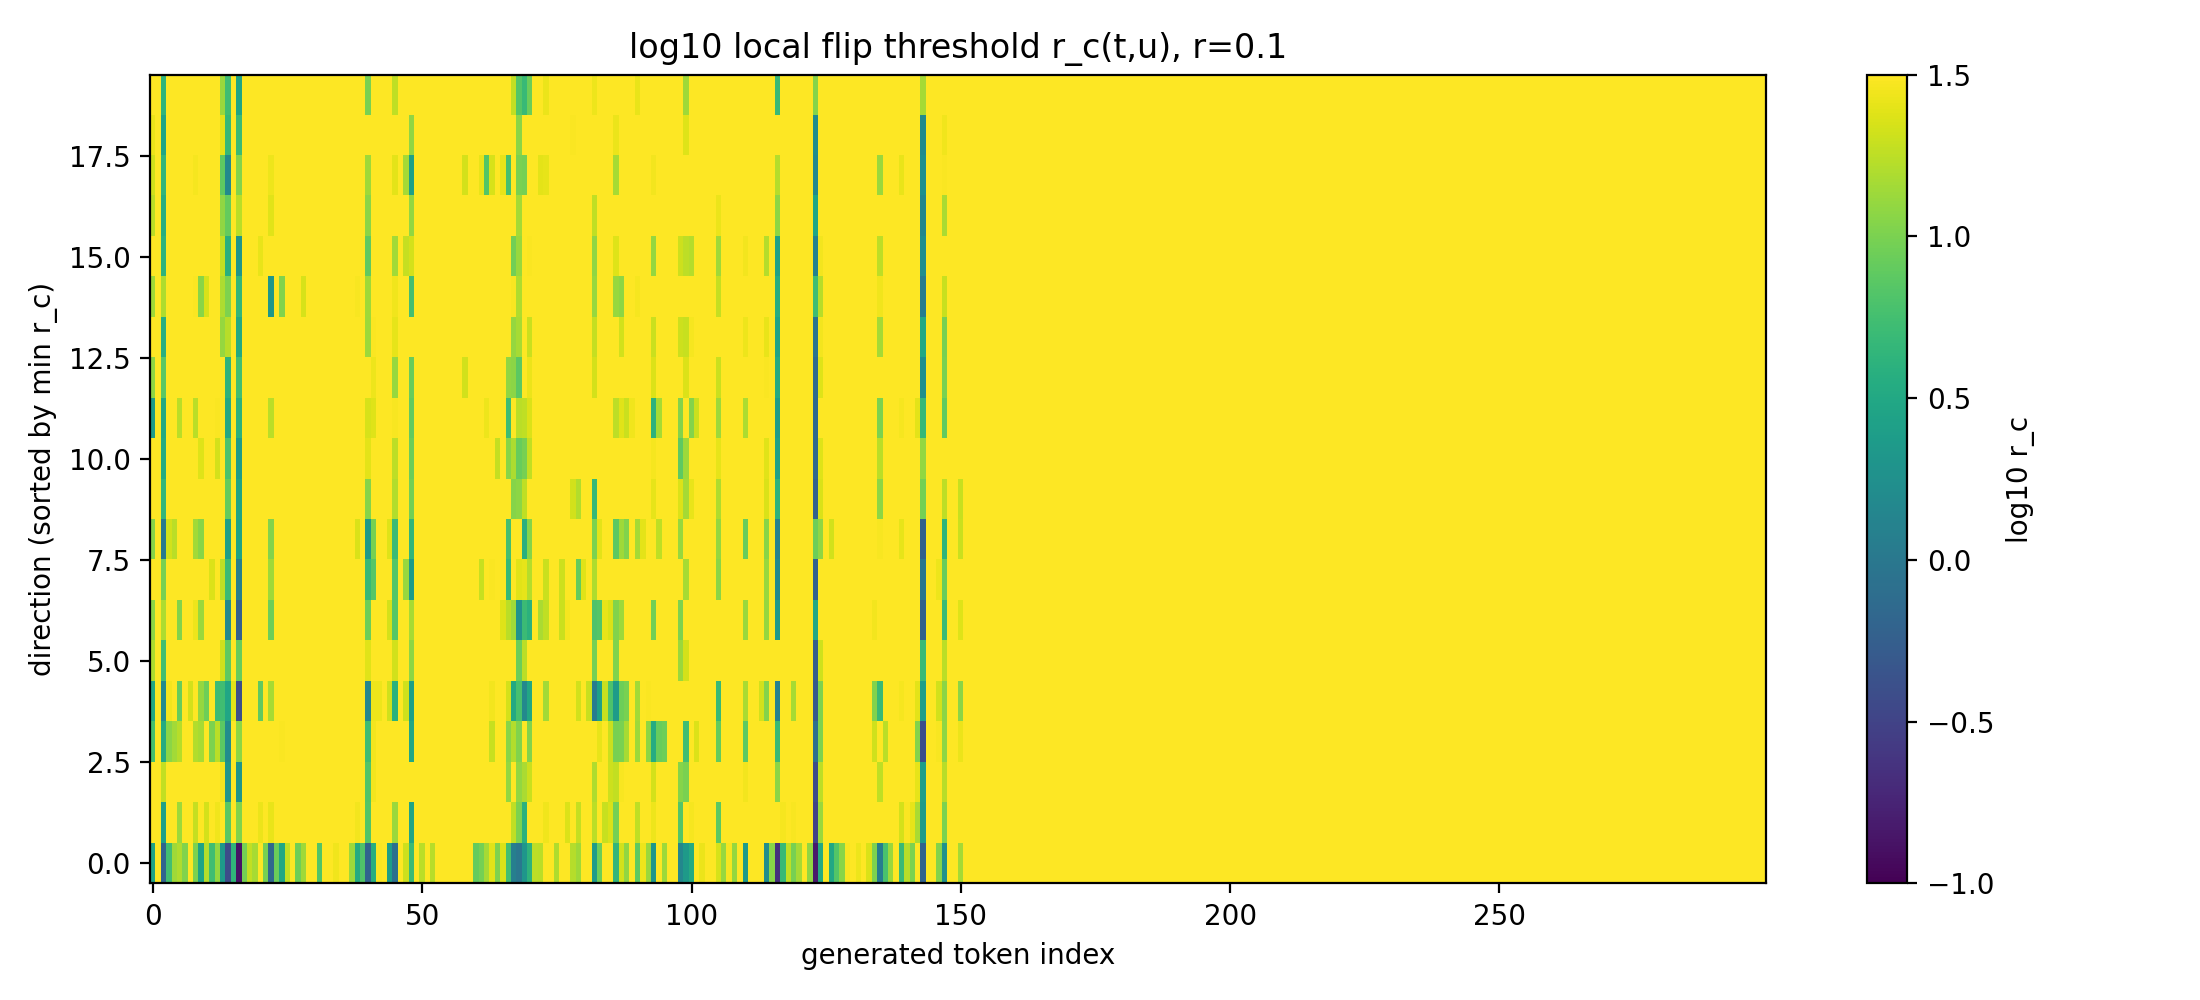
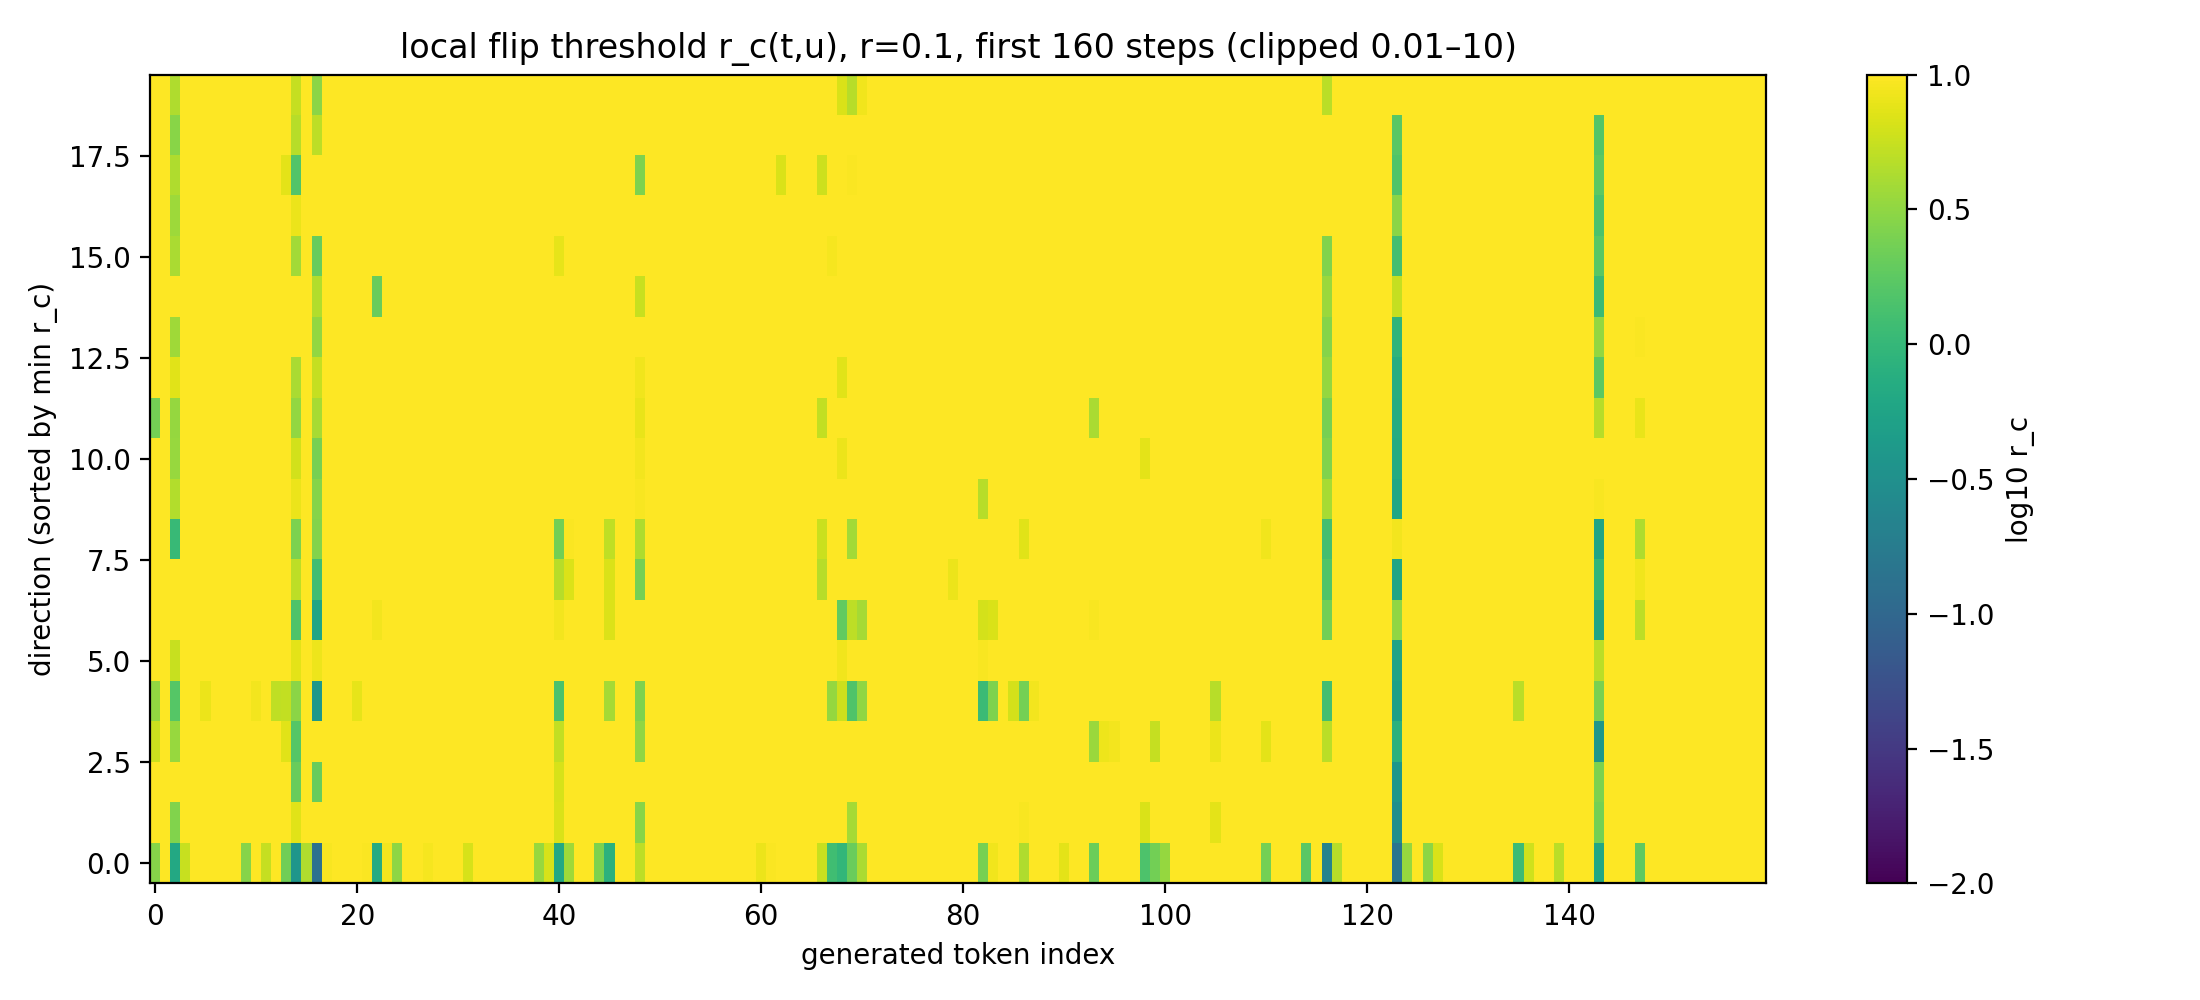
Add non-normality/principal-angle results and state-perturbation response

diff --git a/scripts/plot_a1.py b/scripts/plot_a1.py
@@ -74,13 +74,13 @@ fig.tight_layout(); fig.savefig(os.path.join(OUT, 'response_vs_r.png'), dpi=200)
 # 5. r_c heatmap at r=0.1 (or nearest)
 r0 = 0.1
 i0 = int(np.argmin(np.abs(radii - r0)))
-rc0 = rc[i0]  # [K,T]
+rc0 = np.clip(rc[i0][:, :160], 1e-2, 10.0)  # [K,160]
 order = np.argsort(rc0.min(axis=1))
 fig, ax = plt.subplots(figsize=(11, 5))
-im = ax.imshow(np.log10(np.maximum(rc0[order], 1e-6)), aspect='auto', origin='lower',
-               cmap='viridis', vmin=-1, vmax=1.5)
+im = ax.imshow(np.log10(rc0[order]), aspect='auto', origin='lower',
+               cmap='viridis', vmin=-2, vmax=1)
 ax.set_xlabel('generated token index'); ax.set_ylabel('direction (sorted by min r_c)')
-ax.set_title(f'log10 local flip threshold r_c(t,u), r={radii[i0]:g}')
+ax.set_title(f'local flip threshold r_c(t,u), r={radii[i0]:g}, first 160 steps (clipped 0.01–10)')
 fig.colorbar(im, ax=ax, label='log10 r_c')
 fig.tight_layout(); fig.savefig(os.path.join(OUT, 'rc_heatmap.png'), dpi=200); plt.close(fig)
 

diff --git a/docs/RESULTS_SUMMARY.md b/docs/RESULTS_SUMMARY.md
@@ -12,6 +12,12 @@ All A1 runs use the same 20 simplex directions; `r=0` is a row in the same batch
 - There is a numerical floor below `r≈1e-4` (FP32/RMSNorm ill-conditioning): response no longer scales with `r`. The usable linear range is roughly `r=1e-3…1e-1`.
 - No sustained exponential growth on the token axis.
 
+## 1b. Current-state perturbation and R(t,s)
+
+- Input-embedding perturbation at generated step `s=16,50,100`, `r=1e-3`, 8 directions.
+- The response `||δh_t||` starts at ~0.1 at `t=s` and decays; `R(t,s)` (median) starts near 1 and decays to ~0.1–0.3. There is a bump near t≈130 for `s=50` (a near-tie), not sustained growth.
+- This complements the prompt perturbation; the current state is also not exponentially unstable.
+
 ## 2. Margins and first-flip threshold
 
 - Smallest margins: t=123 (0.0202), t=143 (0.0204), t=116 (0.069), t=2 (0.0696), t=16 (0.120).
@@ -37,8 +43,9 @@ All A1 runs use the same 20 simplex directions; `r=0` is a row in the same batch
 - Full block, layer 0: `σ_max≈95–194`, `ρ≈11–39`, `κ≈5–10`.
 - Full block, layer 14: `σ_max≈3.1–3.3`, `ρ≈1.34–1.62`, `κ≈1.9–2.5`.
 - Full block, layer 27: `σ_max≈6.7–9.1`, `ρ≈1.70–1.85`, `κ≈3.6–5.3`.
-- MLP values and principal angles are in `results/nonnorm_w100/` and the `nonnorm_*` figures.
-- Interpretation: every block can amplify a single step (`σ_max>1`), and `κ>1` says the matrix is non-normal. The product can still contract because the expanding subspace rotates; the principal-angle plot is the direct evidence. This is the quantitative answer to “components amplify, composition may not.”
+- MLP alone is much more amplifying: layer 27 `σ_max≈59–95`, `ρ≈17–24`, `κ≈3.3–3.9`; layer 14 `σ_max≈12`, `ρ≈4.5`; layer 0 `σ_max≈8–14`, `ρ≈2.5–5`.
+- **Principal angles between consecutive top singular subspaces: median ≈79–84°.** The expanding direction is almost completely rotated at each layer.
+- Interpretation: the MLP amplifies strongly, but the full residual block is much tamer (`σ_max` 6–9 vs 60–95), and the product can contract because the expanding subspace rotates. This is the quantitative answer to “components amplify, composition may not.”
 
 ## 6. D2 / RQA (negative)
 

diff --git a/docs/MEASUREMENTS.md b/docs/MEASUREMENTS.md
@@ -48,8 +48,9 @@ Use it to decide what to expand in the theory section.
 
 - **Definitions:** `σ_max=||J||₂` (largest singular value; worst one-step amplification), `ρ(J)=max_i|λ_i|` (spectral radius; asymptotic growth for repeated application of the same `J`), `κ=σ_max/ρ`.
 - **Implementation:** `src/chaos_llm/run_nonnorm.py` (`main`); data in `results/nonnorm_w100/`.
-- **Result:** at layer 14, token 50: `σ_max≈3.24`, `ρ≈1.36`, `κ≈2.4`. MLP and full-block values are being written; use the plots.
-- **Interpretation:** a component can amplify one step (`σ_max>1`) while the product contracts. The product singular values and principal angles, not per-component norms, answer the reviewer objection.
+- **Result:** full block, layer 0: `σ_max≈95–194`, `ρ≈11–39`, `κ≈5–10`; layer 14: `σ_max≈3.1–3.3`, `ρ≈1.34–1.62`, `κ≈1.9–2.5`; layer 27: `σ_max≈6.7–9.1`, `ρ≈1.70–1.85`, `κ≈3.6–5.3`. MLP alone: layer 27 `σ_max≈59–95`, `ρ≈17–24`, `κ≈3.3–3.9`.
+- **Principal angles:** median ≈79–84° between consecutive top singular subspaces. The expanding direction rotates almost completely each layer.
+- **Interpretation:** a component can amplify one step (`σ_max>1`) while the product contracts. The MLP amplifies much more than the full residual block; the rotation is the mechanism. The product singular values and principal angles, not per-component norms, answer the reviewer objection.
 
 ## 6. Correlation dimension and RQA
 

diff --git a/results/figures/INDEX.md b/results/figures/INDEX.md
@@ -40,7 +40,11 @@ All A1 figures use the same 20 simplex directions. “Generated step” means to
 
 ## Non-normality
 
-- **nonnorm_mlp.png** — MLP `σ_max`, `ρ`, `κ` vs layer for several tokens.
-- **nonnorm_full.png** — full-block `σ_max`, `ρ`, `κ` at selected layers/tokens.
-- **nonnorm_scatter.png** — `σ_max` vs `ρ`; points above the diagonal are non-normal.
-- **nonnorm_angles.png** — principal angles between top singular subspaces of consecutive layers.
+- **nonnorm_mlp.png** — MLP `σ_max`, `ρ`, `κ` vs selected layers for 3 tokens. MLP layer 27 is strongly amplifying.
+- **nonnorm_full.png** — full-block `σ_max`, `ρ`, `κ` at layers 0/14/27.
+- **nonnorm_scatter.png** — `σ_max` vs `ρ`; points above the diagonal are non-normal. Full block: `σ_max` 95–194 at layer 0, 3 at layer 14, 7–9 at layer 27.
+- **nonnorm_angles.png** — principal angles between top singular subspaces of consecutive layers; median ≈79–84°, i.e., the expanding direction rotates.
+
+## State perturbation
+
+- **state_response.png** — input-embedding perturbation at s=16/50/100, r=1e-3: `||δh_t||` and `R(t,s)`; response decays, with a near-tie bump near t≈130.
